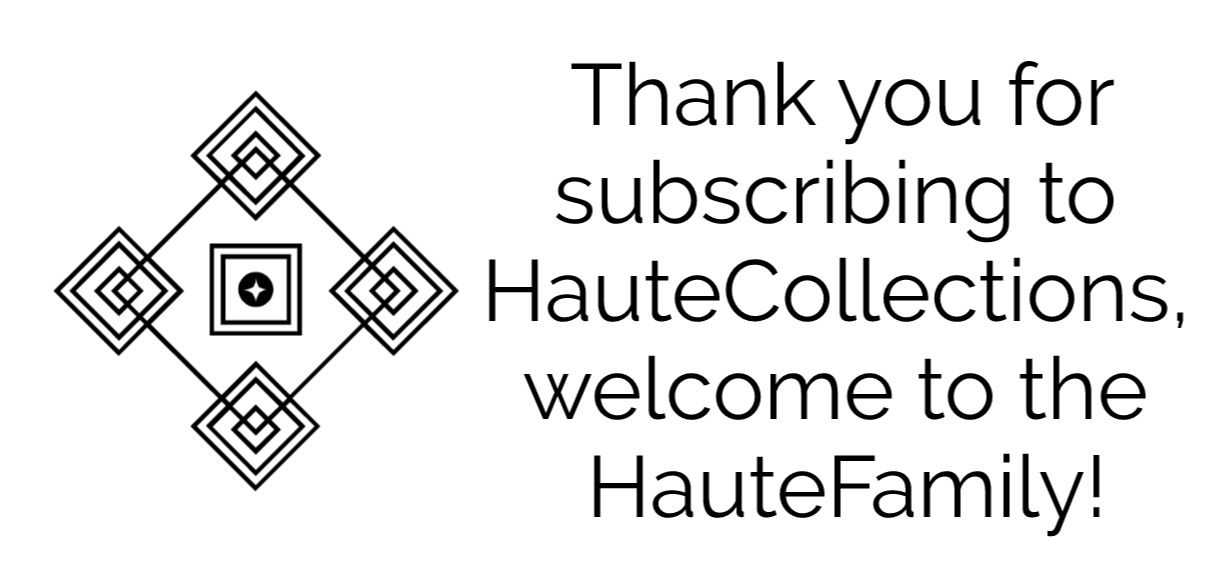
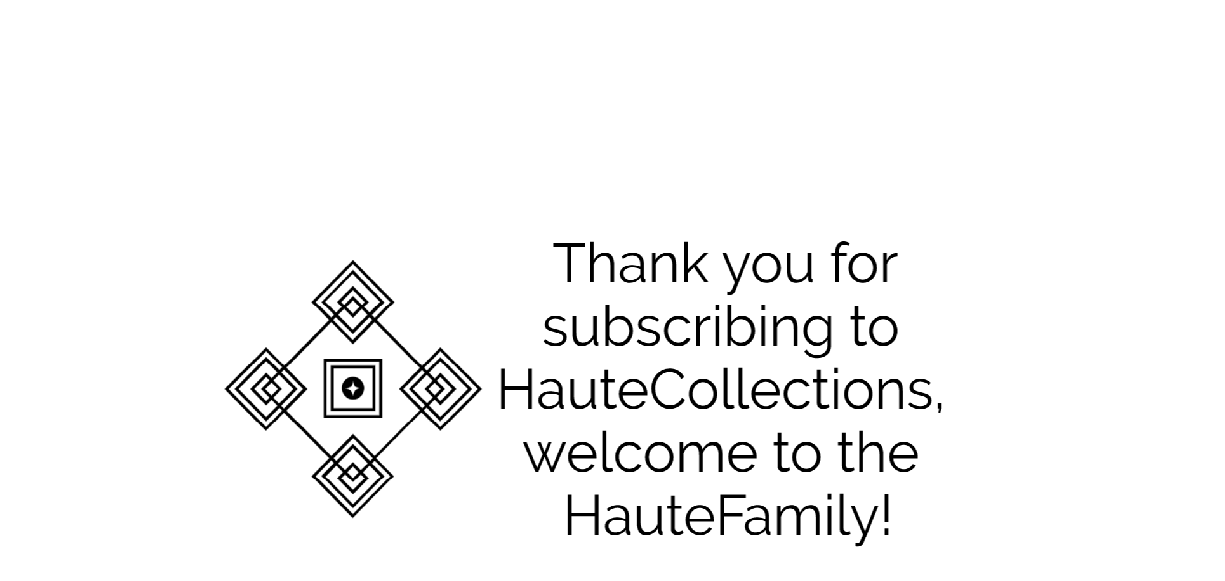
chnages

Changed region(s): [[0.031, 0.2788, 0.9927, 0.9294], [0.4653, 0.0929, 0.9306, 0.2478], [0.1551, 0.1549, 0.2792, 0.4028]]

diff --git a/confetti.js b/confetti.js
@@ -1,82 +1,103 @@
-NUM_CONFETTI = 350
-COLORS = [[85,71,106], [174,61,99], [219,56,83], [244,92,68], [248,182,70]]
-PI_2 = 2*Math.PI
+window.onload = function () {
+    //canvas init
+    var canvas = document.getElementById("canvas");
+    var ctx = canvas.getContext("2d");
+
+    //canvas dimensions
+    var W = window.innerWidth;
+    var H = window.innerHeight;
+    canvas.width = W;
+    canvas.height = H;
+
+    //snowflake particles
+    var mp = 200; //max particles
+    var particles = [];
+    for (var i = 0; i < mp; i++) {
+        particles.push({
+            x: Math.random() * W, //x-coordinate
+            y: Math.random() * H, //y-coordinate
+            r: Math.random() * 15 + 1, //radius
+            d: Math.random() * mp, //density
+            color: "rgba(" + Math.floor((Math.random() * 255)) + ", " + Math.floor((Math.random() * 255)) + ", " + Math.floor((Math.random() * 255)) + ", 0.8)",
+            tilt: Math.floor(Math.random() * 5) - 5
+        });
+    }
+
+    //Lets draw the flakes
+    function draw() {
+        ctx.clearRect(0, 0, W, H);
 
 
-canvas = document.getElementById "world"
-context = canvas.getContext "2d"
-window.w = 0
-window.h = 0
 
-resizeWindow = ->
-  window.w = canvas.width = window.innerWidth
-  window.h = canvas.height = window.innerHeight
+        for (var i = 0; i < mp; i++) {
+            var p = particles[i];
+            ctx.beginPath();
+            ctx.lineWidth = p.r;
+            ctx.strokeStyle = p.color; // Green path
+            ctx.moveTo(p.x, p.y);
+            ctx.lineTo(p.x + p.tilt + p.r / 2, p.y + p.tilt);
+            ctx.stroke(); // Draw it
+        }
 
-window.addEventListener 'resize', resizeWindow, false
-  
-window.onload = -> setTimeout resizeWindow, 0
+        update();
+    }
 
-range = (a,b) -> (b-a)*Math.random() + a
+    //Function to move the snowflakes
+    //angle will be an ongoing incremental flag. Sin and Cos functions will be applied to it to create vertical and horizontal movements of the flakes
+    var angle = 0;
 
-drawCircle = (x,y,r,style) ->
-  context.beginPath()
-  context.arc(x,y,r,0,PI_2,false)
-  context.fillStyle = style
-  context.fill()
+    function update() {
+        angle += 0.01;
+        for (var i = 0; i < mp; i++) {
+            var p = particles[i];
+            //Updating X and Y coordinates
+            //We will add 1 to the cos function to prevent negative values which will lead flakes to move upwards
+            //Every particle has its own density which can be used to make the downward movement different for each flake
+            //Lets make it more random by adding in the radius
+            p.y += Math.cos(angle + p.d) + 1 + p.r / 2;
+            p.x += Math.sin(angle) * 2;
 
-xpos = 0.5
+            //Sending flakes back from the top when it exits
+            //Lets make it a bit more organic and let flakes enter from the left and right also.
+            if (p.x > W + 5 || p.x < -5 || p.y > H) {
+                if (i % 3 > 0) //66.67% of the flakes
+                {
+                    particles[i] = {
+                        x: Math.random() * W,
+                        y: -10,
+                        r: p.r,
+                        d: p.d,
+                        color: p.color,
+                        tilt: p.tilt
+                    };
+                } else {
+                    //If the flake is exitting from the right
+                    if (Math.sin(angle) > 0) {
+                        //Enter from the left
+                        particles[i] = {
+                            x: -5,
+                            y: Math.random() * H,
+                            r: p.r,
+                            d: p.d,
+                            color: p.color,
+                            tilt: p.tilt
+                        };
+                    } else {
+                        //Enter from the right
+                        particles[i] = {
+                            x: W + 5,
+                            y: Math.random() * H,
+                            r: p.r,
+                            d: p.d,
+                            color: p.color,
+                            tilt: p.tilt
+                        };
+                    }
+                }
+            }
+        }
+    }
 
-document.onmousemove = (e) ->
-  xpos = e.pageX/w
-
-window.requestAnimationFrame = do ->
-  window.requestAnimationFrame       ||
-  window.webkitRequestAnimationFrame ||
-  window.mozRequestAnimationFrame    ||
-  window.oRequestAnimationFrame      ||
-  window.msRequestAnimationFrame     ||
-  (callback) -> window.setTimeout(callback, 1000 / 60)
-
-
-class Confetti
-
-  constructor: ->
-    @style = COLORS[~~range(0,5)]
-    @rgb = "rgba(#{@style[0]},#{@style[1]},#{@style[2]}"
-    @r = ~~range(2,6)
-    @r2 = 2*@r
-    @replace()
-
-  replace: ->
-    @opacity = 0
-    @dop = 0.03*range(1,4)
-    @x = range(-@r2,w-@r2)
-    @y = range(-20,h-@r2)
-    @xmax = w-@r
-    @ymax = h-@r
-    @vx = range(0,2)+8*xpos-5
-    @vy = 0.7*@r+range(-1,1)
-
-  draw: ->
-    @x += @vx
-    @y += @vy
-    @opacity += @dop
-    if @opacity > 1
-      @opacity = 1
-      @dop *= -1
-    @replace() if @opacity < 0 or @y > @ymax
-    if !(0 < @x < @xmax)
-      @x = (@x + @xmax) % @xmax
-    drawCircle(~~@x,~~@y,@r,"#{@rgb},#{@opacity})")
-
-
-confetti = (new Confetti for i in [1..NUM_CONFETTI])
-
-window.step = ->
-  requestAnimationFrame(step)
-  context.clearRect(0,0,w,h)
-  c.draw() for c in confetti
-
-step()
-  
-  
+    //animation loop
+    setInterval(draw, 20);
+}

diff --git a/thanks.html b/thanks.html
@@ -10,6 +10,7 @@
 <link rel="stylesheet" href="style.css">
 <link rel="stylesheet" href="https://www.w3schools.com/w3css/4/w3.css">
 <link rel="stylesheet" href="https://fonts.googleapis.com/css?family=Karma">
+<link rel="stylesheet" href="confetti.css">
 
 <style>
   body,h1,h2,h3,h4,h5,h6 {font-family: "Karma", sans-serif}
@@ -17,6 +18,7 @@
   </style>
 </head>
 <body>
+        <canvas id="canvas"></canvas>
   <!-- Navbar (sit on top) -->
   <div class="w3-top">   
     <div class="w3-bar w3-white w3-wide w3-padding w3-card">
@@ -31,16 +33,12 @@
       </div>
     </div>
   </div>
- <canvas id="world"></canvas>
+ 
 <!-- Header -->
+<br>
+<br>
+<br>
 <header class="w3-display-container w3-content w3-wide" style="max-width:1500px;" id="home">
-    <br>
-    <br>
-    <br>
-    
-    
-
-        <img class="w3-display-container w3-content w3-wide" src="thankyou!.Png" alt="thank you" width="1300" height="500">
 
         <div class="w3-display-middle w3-margin-top w3-center">
           <h1 class="w3-xxlarge w3-text-white"><span class=><b></b></span> <span class="w3-hide-small w3-text-light-grey"></span></h1>
@@ -48,14 +46,13 @@
       </header>
 
 <!-- Page content -->
-<div class="wrapper"></div>
 
   <!-- Project Section -->
   
     
      
   </div>
-  
+
 
 
   <!-- <div class="w3-row-padding ">
@@ -67,8 +64,8 @@
 
 
 <!-- End page content -->
+<script src="confetti.js"></script>
 
-</div>
 
 
 <!-- Footer -->

diff --git a/confetti.css b/confetti.css
@@ -1,8 +1,13 @@
-html, body {
+/*Simple reset*/
+* {
     margin: 0;
     padding: 0;
-    width: 100%;
-    height: 100%;
-    overflow: hidden;
-    background: #111;
-  }
+}
+body {
+    /*You can use any kind of background here.*/
+    background: url("thankyou!.Png");
+    background-repeat: no-repeat;
+}
+canvas {
+    display: block;
+}
